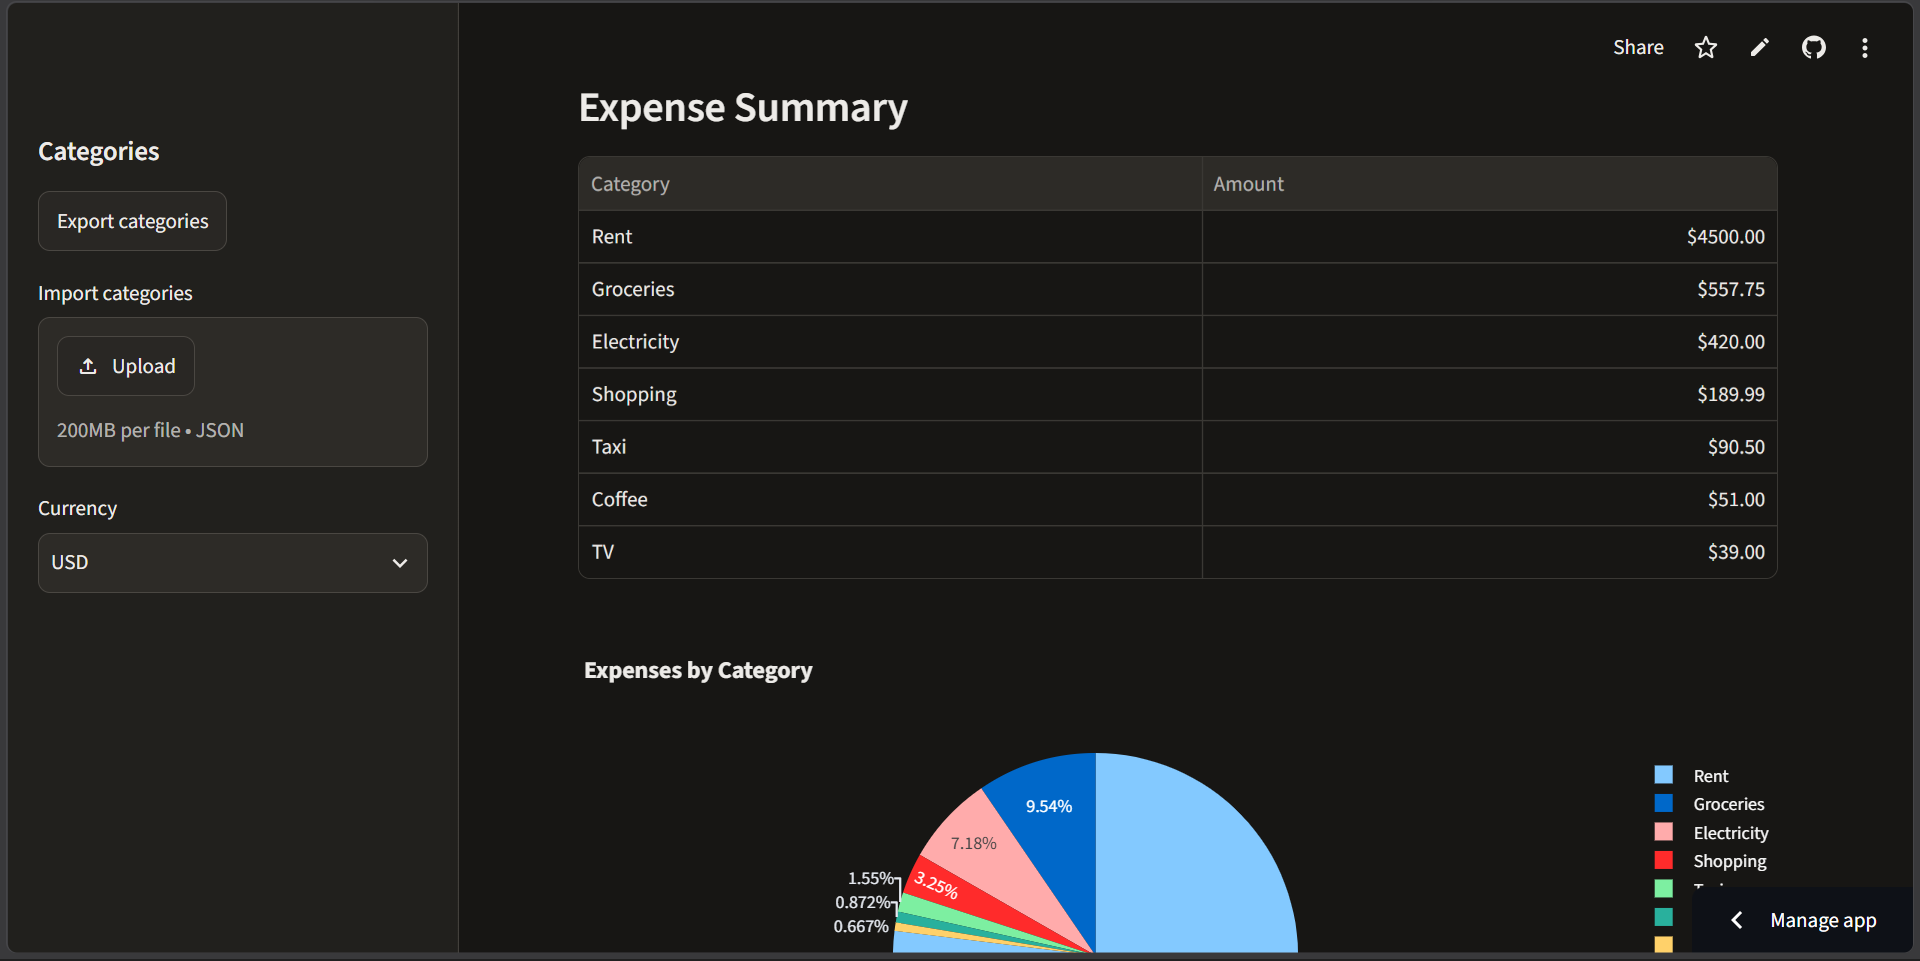
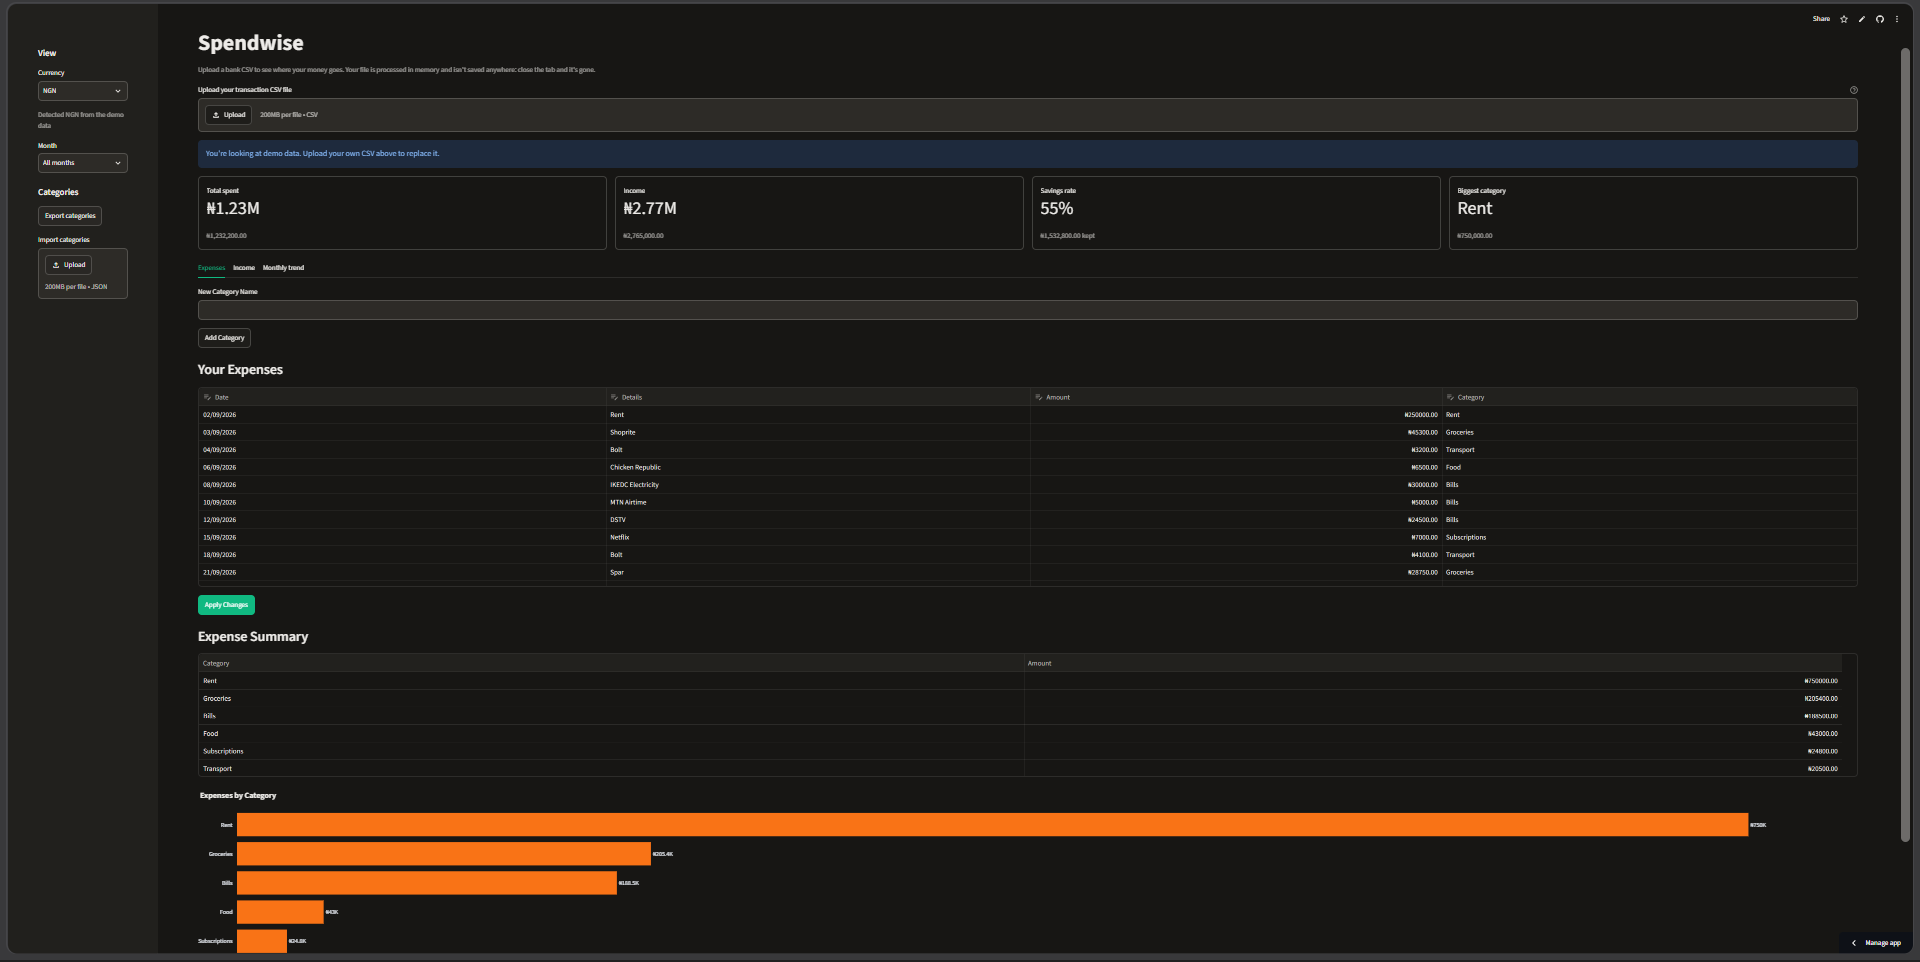
docs: refresh README screenshot and features

diff --git a/README.md b/README.md
@@ -15,11 +15,13 @@ The free hosting sleeps when nobody has visited for a while. If you see a wake-u
 ## Features
 
 - Upload a bank statement as a CSV file, or try three months of demo data with one click
+- Headline cards: total spent, income, savings rate and biggest category
 - Assign categories in an editable table; changing one transaction updates every matching one
-- Expense summary table and chart by category
-- Total payments received (credits)
+- Spending by category as a sorted bar chart, with a summary table
+- Month filter, plus a monthly trend of spending against income
 - Currency detected automatically from a `Currency` column or from symbols in the amounts (₦, $, €, £), with a manual selector (USD, NGN, EUR, GBP, AED)
 - Export and import your categories as a JSON file
+- Light and dark mode
 
 ## CSV format
 
@@ -67,12 +69,13 @@ python -m pytest
 - **`transactions.py`** holds all the logic (parsing, currency detection, categorising, import/export validation) as plain functions with no Streamlit imports, so it can be unit tested
 - **`main.py`** is the Streamlit interface and keeps per-visitor state in the session
 - **`test_transactions.py`** covers the logic with pytest
+- **`sample_data/`** holds the demo transactions and categories; a test keeps them valid and fully categorised
+- **`.streamlit/config.toml`** sets the brand colour for both the light and dark themes
 - **CI:** GitHub Actions runs the tests on Ubuntu with Python 3.13 for every pull request, and `main` is protected so a failing check blocks the merge
 - **Deployment:** Streamlit Community Cloud redeploys the live app on every merge to `main`
 
 ## Roadmap
 
-- Month filter and spending trends over time
 - Budgets per category with progress bars
 - Smarter matching, so partial names like `UBER *TRIP 123` match `Uber`
 - v2: rebuild with a FastAPI backend and a Next.js frontend, with accounts
